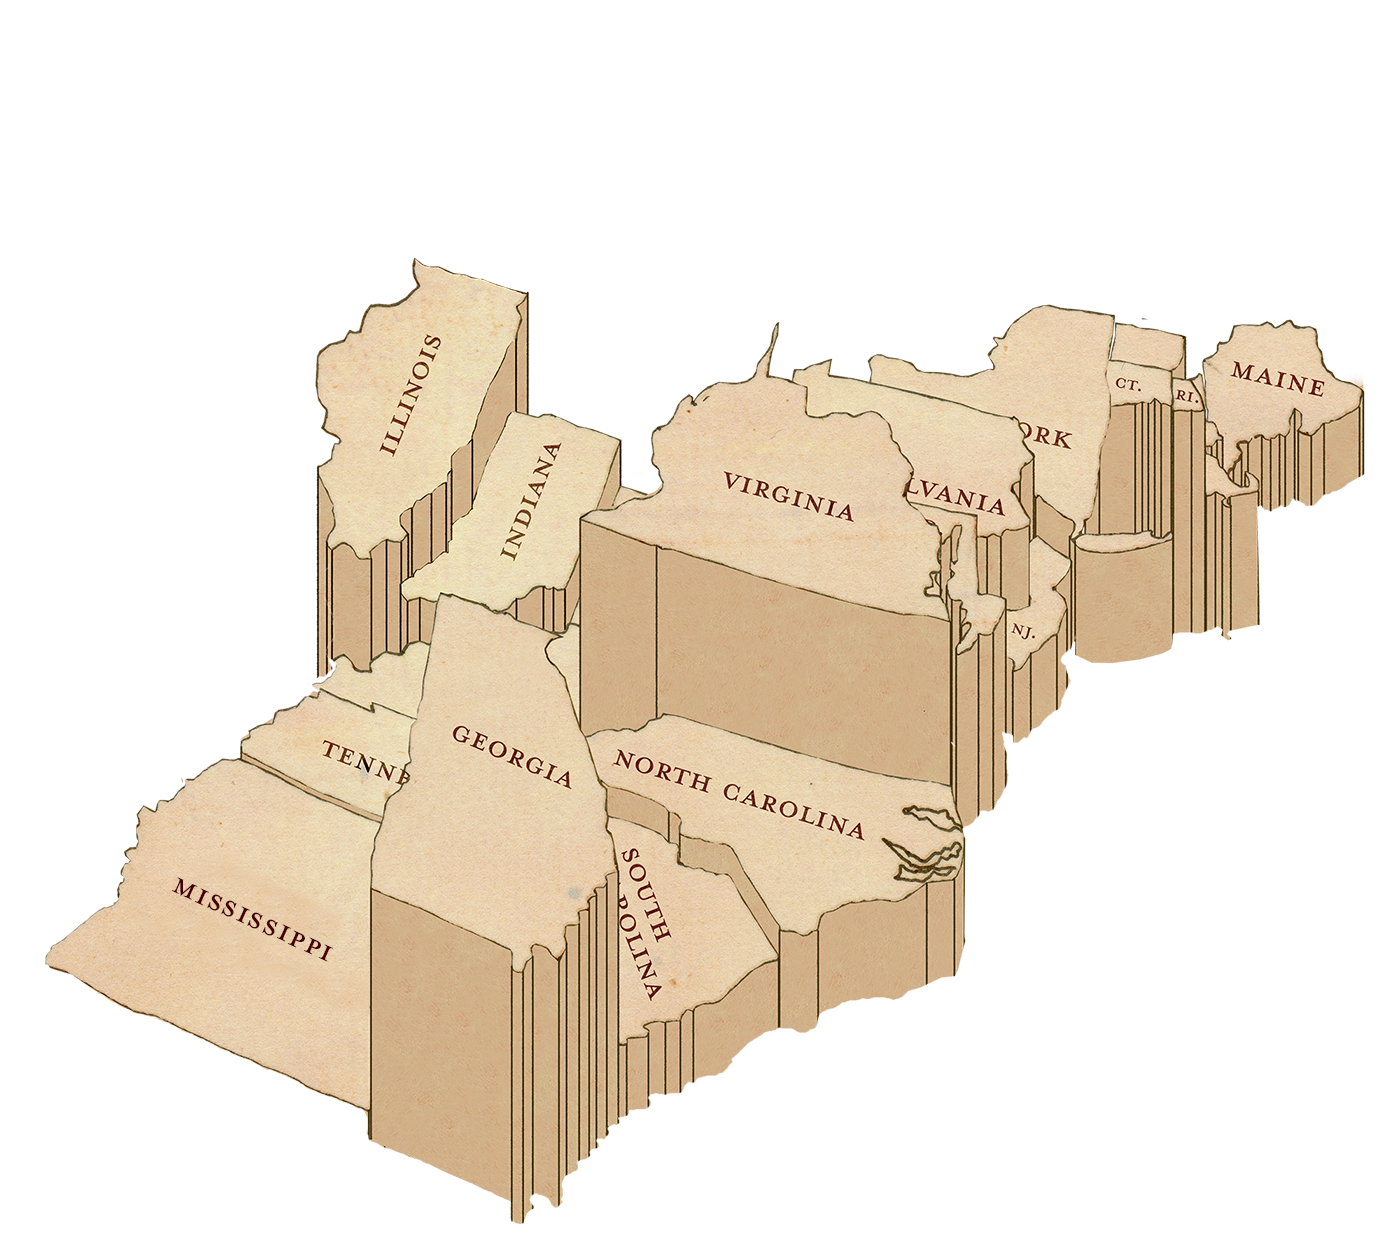
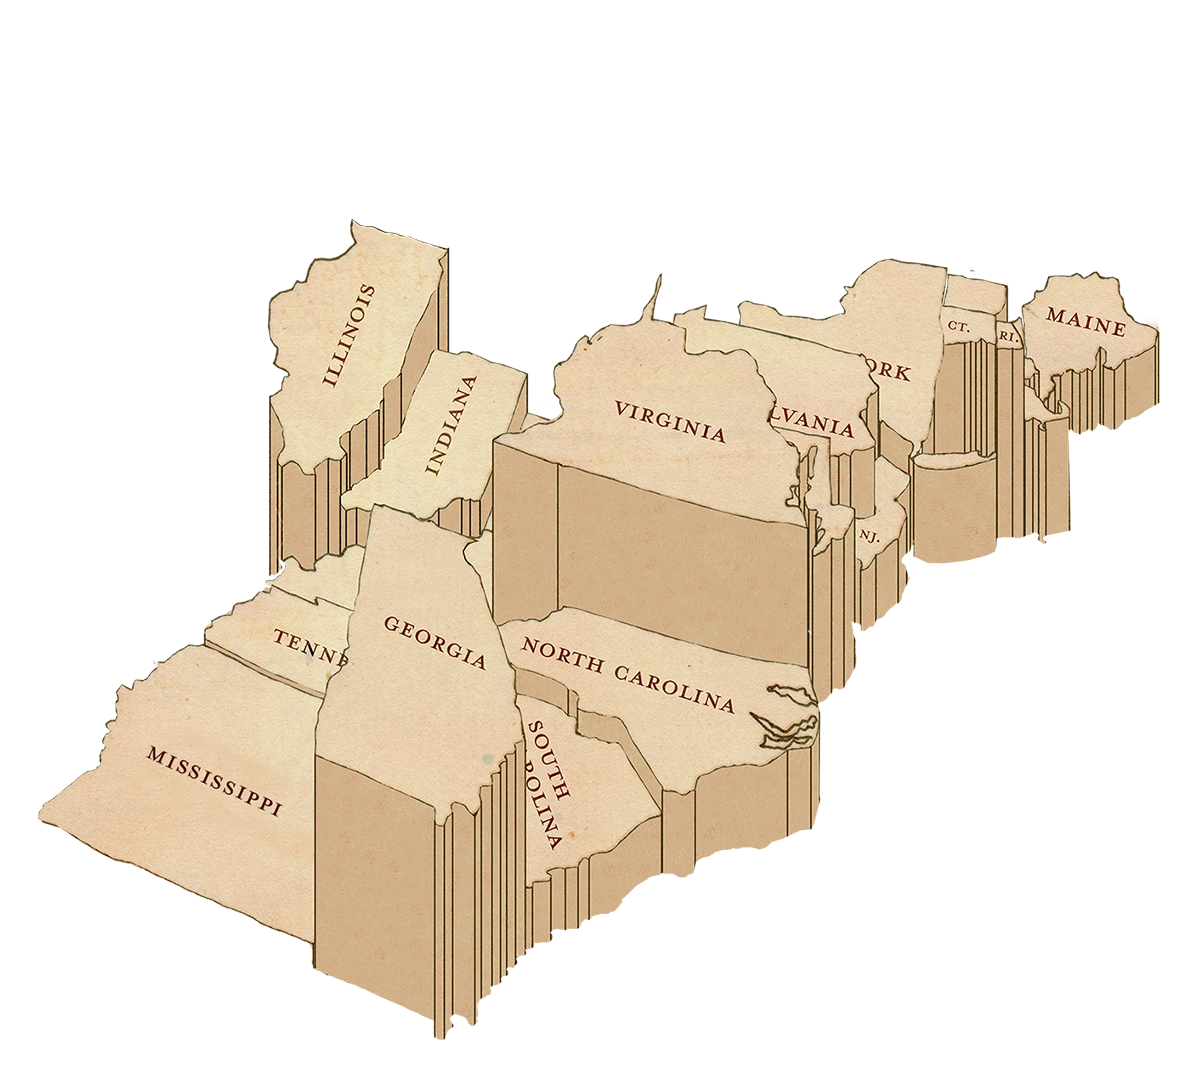
Reducing File Sizes

diff --git a/style.css b/style.css
@@ -6,7 +6,7 @@ font-size: 20px;
 
 body {
 	margin: 0;
-	background-color: #E1C79C;
+	background-color: #c19c7a;
 }
 
 .main {
@@ -16,7 +16,7 @@ body {
 	padding-bottom: 120%;
 	margin: 0 auto;
 	margin-top: 0px;
-	background-color: beige;
+	background-color: #c19c7a;
 	background-image: url(mapTexture2.jpg);
 	background-size: 126.2% 97.5%;
 	background-position: center;
@@ -150,6 +150,7 @@ body {
 	transition: background-image 0.5s ease-in-out;
 	transition: 0.5s ease-in-out;
 	opacity: 1;
+	/*margin-left: 42.8vw;*/
 	margin-left: 42.8%;
 	margin-top: 5.7%;
 }
@@ -162,7 +163,7 @@ body {
 	font-family: 'Libre Baskerville', serif;
 	font-style: italic;
 	text-align: center;
-	color: #584531;
+	color: #ad1b0d;
 	cursor: pointer;
 }
 
@@ -317,19 +318,16 @@ body {
 
 
 #l1 {
-	color: #683F28;
 	opacity: 0.7;
 }
 
 
 #l2 {
-	color: #683F28;
 	opacity: 0.7;
 	margin-top: 8px;
 }
 
 #l3 {
-	color: #683F28;
 	opacity: 0.7;
 }
 
@@ -468,6 +466,7 @@ body {
 
 	.links {
 		font-size: 6px;
+		color: #ad1b0d
 	}
 
 	.title-sec {
@@ -503,6 +502,10 @@ body {
 
 	.header2 {
 		margin-left: 90px;
+	}
+
+	.bottom {
+		display: none;
 	}
 }
 

diff --git a/script.js b/script.js
@@ -14,7 +14,7 @@ $('#l1').click(function(){
 	$('.links').css('font-weight', 'normal');
 	$(this).css('font-weight', 'bold');
 	$('.links').css('color', '#683F28');
-	$(this).css('color', '#332109');
+	$(this).css('color', '#ad1b0d');
 	$('.links').css('opacity', '0.8');
 	$(this).css('opacity', '1');
 
